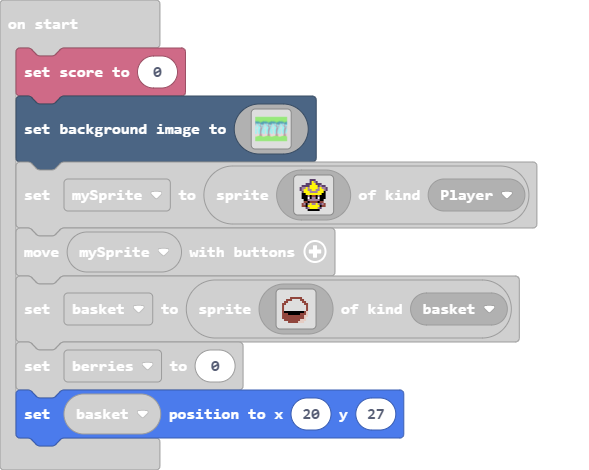
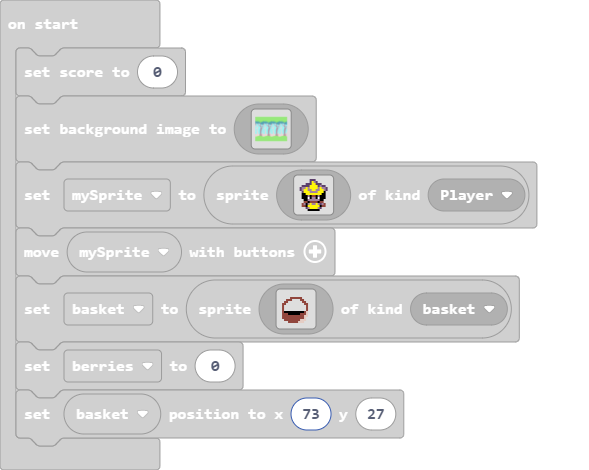
Update main.blocks, main.ts

Changed region(s): [[0.0, 0.0894, 0.5501, 0.3872], [0.0, 0.8043, 0.7029, 0.9532]]

diff --git a/main.ts b/main.ts
@@ -188,7 +188,7 @@ let basket = sprites.create(img`
     . . . . . . . . . . . . . . . . 
     `, SpriteKind.basket)
 berries = 0
-basket.setPosition(20, 27)
+basket.setPosition(73, 27)
 game.onUpdateInterval(1000, function () {
     if (Math.percentChance(60)) {
         mySprite2 = sprites.create(img`
